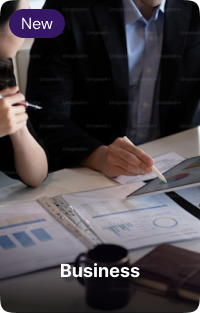
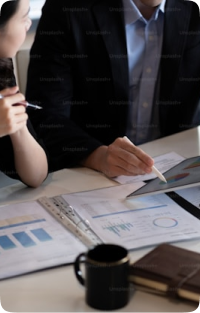
attepmt 14

Changed region(s): [[0.0, 0.6901, 1.0, 1.0], [0.03, 0.0288, 0.33, 0.1438], [0.93, 0.8626, 0.99, 0.8914]]

diff --git a/src/Pages/Home/components/DigitalEducationSlider/index.jsx b/src/Pages/Home/components/DigitalEducationSlider/index.jsx
@@ -4,7 +4,22 @@ import "slick-carousel/slick/slick.css";
 import { Box, Typography, Button } from "@mui/material";
 import "slick-carousel/slick/slick-theme.css";
 import { useLanguage } from "../../../../globalContext/GlobalProvider";
-import "./DigitalEducation.css"; // Make sure this file is properly linked
+import "./DigitalEducation.css";
+import Development from "@assets/Images/Developmentimg.png";
+import Design from "@assets/Images/Designimg.png";
+import Marketing from "@assets/Images/Marketingimg.png";
+import Business from "@assets/Images/Businessimg.png";
+import DataScience from "@assets/Images/DataScienceimg.png";
+import Technology from "@assets/Images/Technologyimg.png";
+
+const NIGGA_images = [
+  Development,
+  Design,
+  Marketing,
+  Business,
+  DataScience,
+  Technology,
+];
 
 export default function DigitalEducation() {
   const { data } = useLanguage();
@@ -14,52 +29,9 @@ export default function DigitalEducation() {
     return <div>Data is loading...</div>;
   }
 
+  // Get the JSON data that corresponds to each image
   const images = data.digitaleducationcards;
 
-  // const settings = {
-  //   dots: true,
-  //   infinite: true,
-  //   arrows: false,
-  //   speed: 500,
-  //   slidesToShow: 6,
-  //   slidesToScroll: 6,
-  //   responsive: [
-  //     {
-  //       breakpoint: 1044,
-  //       settings: {
-  //         slidesToShow: 4,
-  //         slidesToScroll: 3,
-  //         infinite: true,
-  //         dots: true,
-  //       },
-  //     },
-  //     {
-  //       breakpoint: 844,
-  //       settings: {
-  //         slidesToShow: 1,
-  //         slidesToScroll: 1,
-  //         infinite: true,
-  //         dots: false,
-  //       },
-  //     },
-  //     {
-  //       breakpoint: 600,
-  //       settings: {
-  //         slidesToShow: 2,
-  //         slidesToScroll: 2,
-  //         initialSlide: 2,
-  //       },
-  //     },
-  //     {
-  //       breakpoint: 480,
-  //       settings: {
-  //         slidesToShow: 1,
-  //         slidesToScroll: 1,
-  //         dots: false,
-  //       },
-  //     },
-  //   ],
-  // };
   const settings = {
     dots: true,
     infinite: true,
@@ -69,7 +41,7 @@ export default function DigitalEducation() {
     slidesToScroll: 6,
     responsive: [
       {
-        breakpoint: 1544, // Large screens
+        breakpoint: 1544,
         settings: {
           slidesToShow: 5,
           slidesToScroll: 3,
@@ -78,7 +50,7 @@ export default function DigitalEducation() {
         },
       },
       {
-        breakpoint: 1044, // Large screens
+        breakpoint: 1044,
         settings: {
           slidesToShow: 4,
           slidesToScroll: 3,
@@ -87,9 +59,9 @@ export default function DigitalEducation() {
         },
       },
       {
-        breakpoint: 960, // Medium screens
+        breakpoint: 960,
         settings: {
-          slidesToShow: 3, // Adjust to 3 slides for 844px and below
+          slidesToShow: 3,
           slidesToScroll: 2,
           infinite: true,
           dots: false,
@@ -108,7 +80,6 @@ export default function DigitalEducation() {
         settings: {
           slidesToShow: 2,
           slidesToScroll: 2,
-          initialSlide: 2,
         },
       },
       {
@@ -143,51 +114,54 @@ export default function DigitalEducation() {
           <Button>See All</Button>
         </Box>
       </Box>
+
       <Slider {...settings}>
-        {Object.entries(images).map(([category, imagePath], index) => (
-          <Box key={index} className="DigitalEducationSlide">
-            <Box
-              className="PicBgDigitalEducationSlide"
-              sx={{
-                backgroundImage: `url(${imagePath.pic})`,
-                backgroundSize: "cover", // Ensures the image covers the div fully
-              }}
-            >
+        {NIGGA_images.map((img, index) => (
+          <Box
+            key={index}
+            className="PicBgDigitalEducationSlide"
+            sx={{
+              backgroundImage: `url(${img})`,
+              backgroundSize: "cover",
+            }}
+          >
+            {/* If data.digitaleducationcards exists, match it with the image */}
+            {images[index] && (
               <Box className="DigitalEducationSlideNewandPicBox">
                 <Box className="DigitalEducationSlideNewChildBox">
-                  {imagePath.new && (
+                  {images[index].new && (
                     <Typography
                       variant="body"
-                      className="dm-sans DigitalEducationSlideNew"
+                      className="dm-sans DigitalEducationSlideNew clr-white"
                     >
-                      {imagePath.new}
+                      {images[index].new}
                     </Typography>
                   )}
                 </Box>
               </Box>
-              {/* <img src={imagePath.pic} className="DigitalEducationImage" /> */}
-              <Box
-                className={
-                  imagePath.des
-                    ? "DigitalEducationSlideTitleandPicBoxwith-description" // Apply this class if `des` exists
-                    : "DigitalEducationSlideTitleandPicBox" // Default class when `des` does not exist
-                }
+            )}
+
+            <Box
+              className={
+                images[index].des
+                  ? "DigitalEducationSlideTitleandPicBoxwith-description"
+                  : "DigitalEducationSlideTitleandPicBox"
+              }
+            >
+              <Typography
+                variant="h5"
+                className="DigitalEducationCardTitle inter clr-white"
               >
+                {images[index]?.title}
+              </Typography>
+              {/* {images[index]?.des && (
                 <Typography
-                  variant="h5"
-                  className="DigitalEducationCardTitle inter"
+                  variant="body"
+                  className="dm-sans DigitalEducationSlideDescription clr-white"
                 >
-                  {imagePath.title}
-                </Typography>
-                {imagePath.des && (
-                  <Typography
-                    variant="body"
-                    className="dm-sans DigitalEducationSlideDescription"
-                  >
-                    {imagePath.des}
-                  </Typography>
-                )}
-              </Box>
+                  {images[index]?.des}
+                </Typography> 
+                     )}*/}
             </Box>
           </Box>
         ))}

diff --git a/src/Pages/Home/components/Review/Index.jsx b/src/Pages/Home/components/Review/Index.jsx
@@ -3,7 +3,7 @@ import { Box, Typography, Button } from "@mui/material";
 import { useLanguage } from "../../../../globalContext/GlobalProvider";
 import "./Review.css";
 import Base from "../../../../assets/Images/Base.png";
-
+import Brightstar from "@assets/Icons/brightstarfilled.png";
 const Review = () => {
   const [more, setMore] = useState(true);
   const wrap = useRef(null);
@@ -62,7 +62,7 @@ const Review = () => {
                     </Box>
                     <Box component="div" className="ratingsImageStar">
                       {review.brightstar && (
-                        <img src={review.brightstar} alt="Rating Star" />
+                        <img src={Brightstar} alt="Rating Star" />
                       )}
                     </Box>
                   </Box>

diff --git a/src/Pages/Home/components/DigitalEducationSlider/DigitalEducation.css b/src/Pages/Home/components/DigitalEducationSlider/DigitalEducation.css
@@ -95,7 +95,7 @@
 .DigitalEducationSlide {
   color: white;
 }
-.PicBgDigitalEducationSlide{
+.PicBgDigitalEducationSlide {
   width: 200px !important;
   height: 313px !important;
 }
@@ -125,9 +125,18 @@
   margin: auto;
   align-items: flex-end;
 }
-.DigitalEducationSlideTitleandPicBoxwith-description {
+/* .DigitalEducationSlideTitleandPicBoxwith-description {
   width: 90% !important;
   margin: auto;
+  display: flex;
+  flex-direction: column;
+  justify-content: center;
+  height: 100%;
+} */
+.DigitalEducationSlideTitleandPicBoxwith-description {
+  width: 90% !important;
+  margin: 70px auto;
+  align-items: center;
   display: flex;
   flex-direction: column;
   justify-content: center;

diff --git a/src/Pages/Home/components/DataScienceCourse/CourseCards/Index.jsx b/src/Pages/Home/components/DataScienceCourse/CourseCards/Index.jsx
@@ -3,7 +3,7 @@ import { Box } from "@mui/material";
 import { useLanguage } from "../../../../../globalContext/GlobalProvider";
 import "./CourseCard.css";
 export const CourseCards = () => {
-  const { language, data } = useLanguage();
+  const { data } = useLanguage();
   if (!data) return <div> data is loading..... </div>;
   const [hearts, setHearts] = useState(
     new Array(data.DataScienceCourseCardsSectionButtonsCourses.length).fill(
